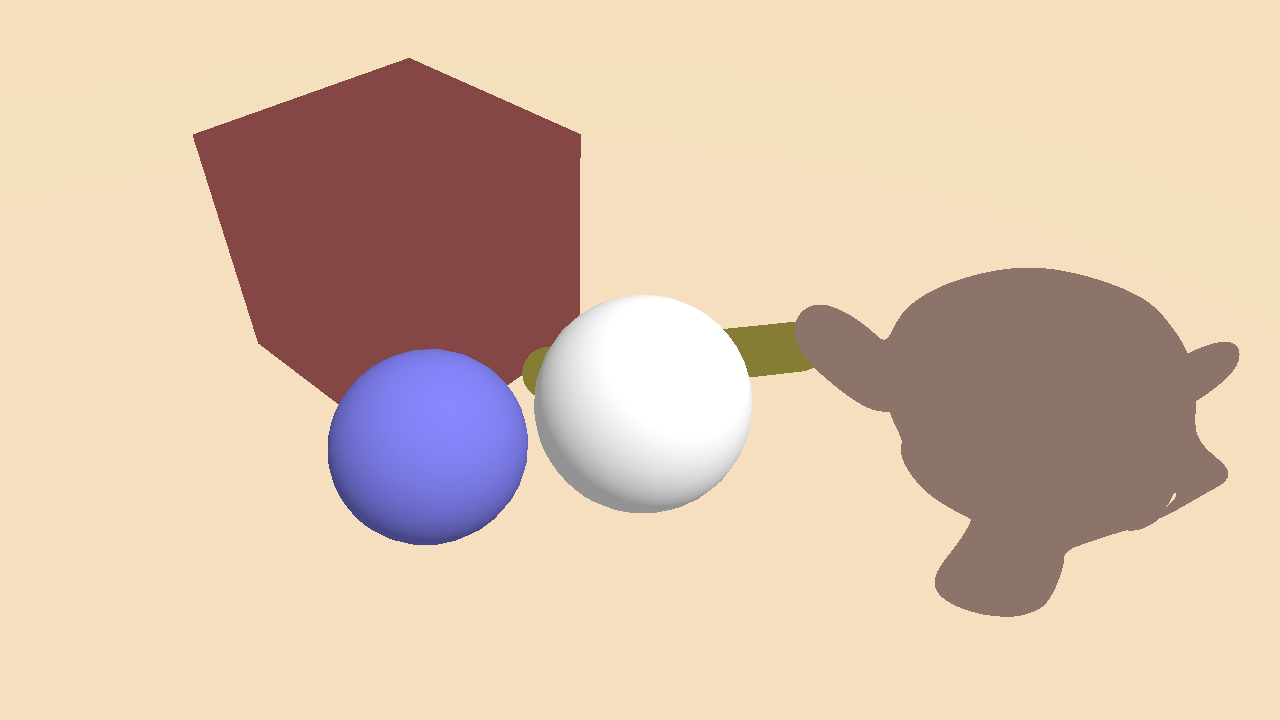
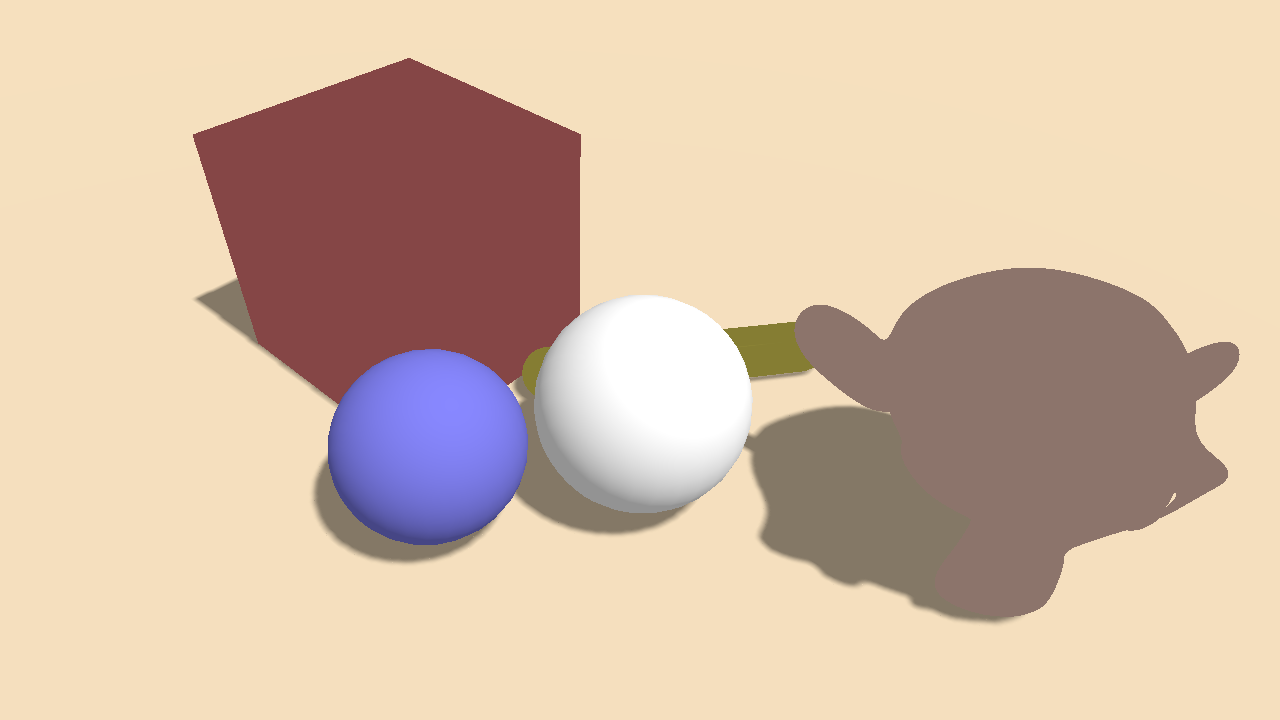
update doc

diff --git a/examples/rendering/rt_mat.py b/examples/rendering/rt_mat.py
@@ -48,7 +48,9 @@ def main():
     scene.set_timestep(1 / 240)
 
     scene.set_ambient_light([0.3, 0.3, 0.3])
-    scene.add_directional_light([0, 0.5, -1], color=[3.0, 3.0, 3.0])
+    scene.add_directional_light([0, 0.5, -1], color=[3.0, 3.0, 3.0],
+                                shadow=True, scale=2.0, shadow_map_size=4096  # these are only needed for rasterization
+                                )
 
     builder = scene.create_actor_builder()
     material = renderer.create_material()

diff --git a/docs/source/conf.py b/docs/source/conf.py
@@ -18,11 +18,11 @@
 # -- Project information -----------------------------------------------------
 
 project = 'sapien'
-copyright = '2020, SAPIEN-TEAM'
+copyright = '2020-2023, SAPIEN-TEAM'
 author = 'SAPIEN-TEAM'
 
 # The full version, including alpha/beta/rc tags
-release = '1.1.0'
+release = '2.2'
 
 # -- General configuration ---------------------------------------------------
 

diff --git a/docs/source/tutorial/rendering/raytracing_renderer.rst b/docs/source/tutorial/rendering/raytracing_renderer.rst
@@ -90,39 +90,39 @@ First, let's setup the environment:
 
 .. literalinclude:: ../../../../examples/rendering/rt_mat.py
    :dedent: 0
-   :lines: 11-51
+   :lines: 13-53
 
 We add a flag ``ray_tracing`` to allow switching between rasterization and ray
 tracing. Next, let's build the scene. First, we create a rough bluish sphere:
 
 .. literalinclude:: ../../../../examples/rendering/rt_mat.py
    :dedent: 0
-   :lines: 53-61
+   :lines: 55-63
 
 Next, we create a rough transparent sphere:
 
 .. literalinclude:: ../../../../examples/rendering/rt_mat.py
    :dedent: 0
-   :lines: 63-73
+   :lines: 65-75
 
 Generally, setting a large `transmission` value will lead to a transparent
 material. Similarly, we can add a capsule and a box with complex materials:
 
 .. literalinclude:: ../../../../examples/rendering/rt_mat.py
    :dedent: 0
-   :lines: 75-93
+   :lines: 77-95
 
 Finally, let's load an external mesh and assign a highly metallic material to that object:
 
 .. literalinclude:: ../../../../examples/rendering/rt_mat.py
    :dedent: 0
-   :lines: 95-104
+   :lines: 97-103
 
 After building the scene, we can get rendering results from the camera:
 
 .. literalinclude:: ../../../../examples/rendering/rt_mat.py
    :dedent: 0
-   :lines: 106-113
+   :lines: 108-115
 
 .. figure:: assets/mat_rast.png
     :width: 720px
@@ -136,6 +136,3 @@ After building the scene, we can get rendering results from the camera:
 
     Result with ray tracer
 
-
-GPU-accelerated Sensor Simulation with SimSense
-------------------------------------------------------------------------
